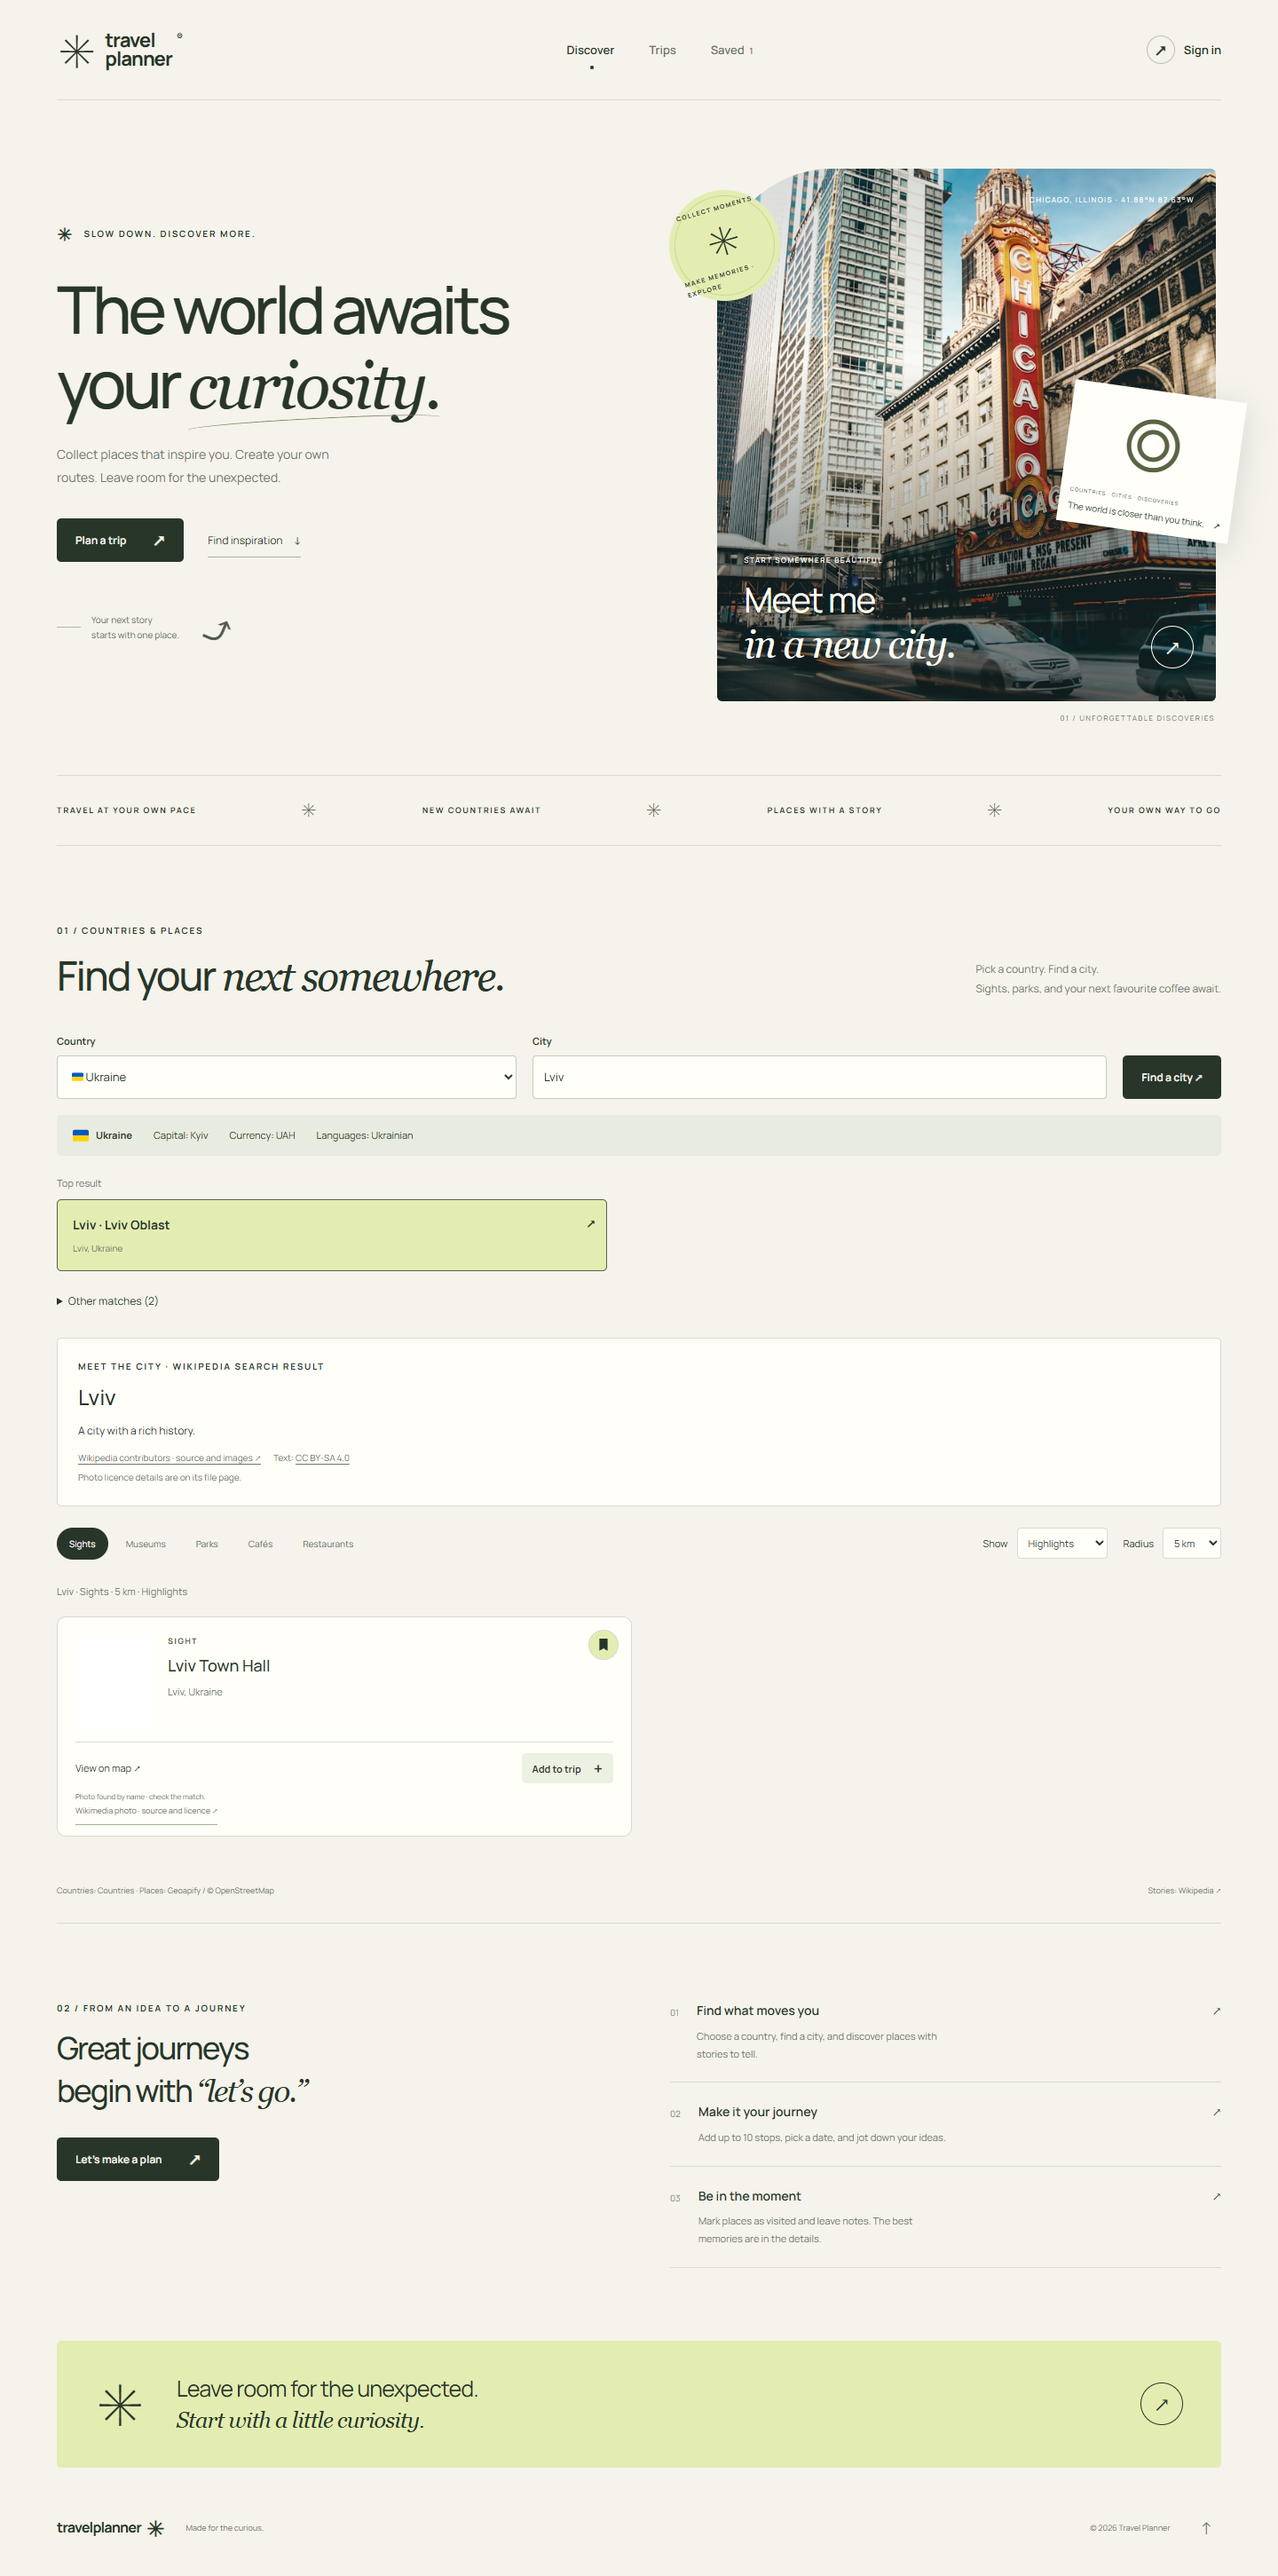
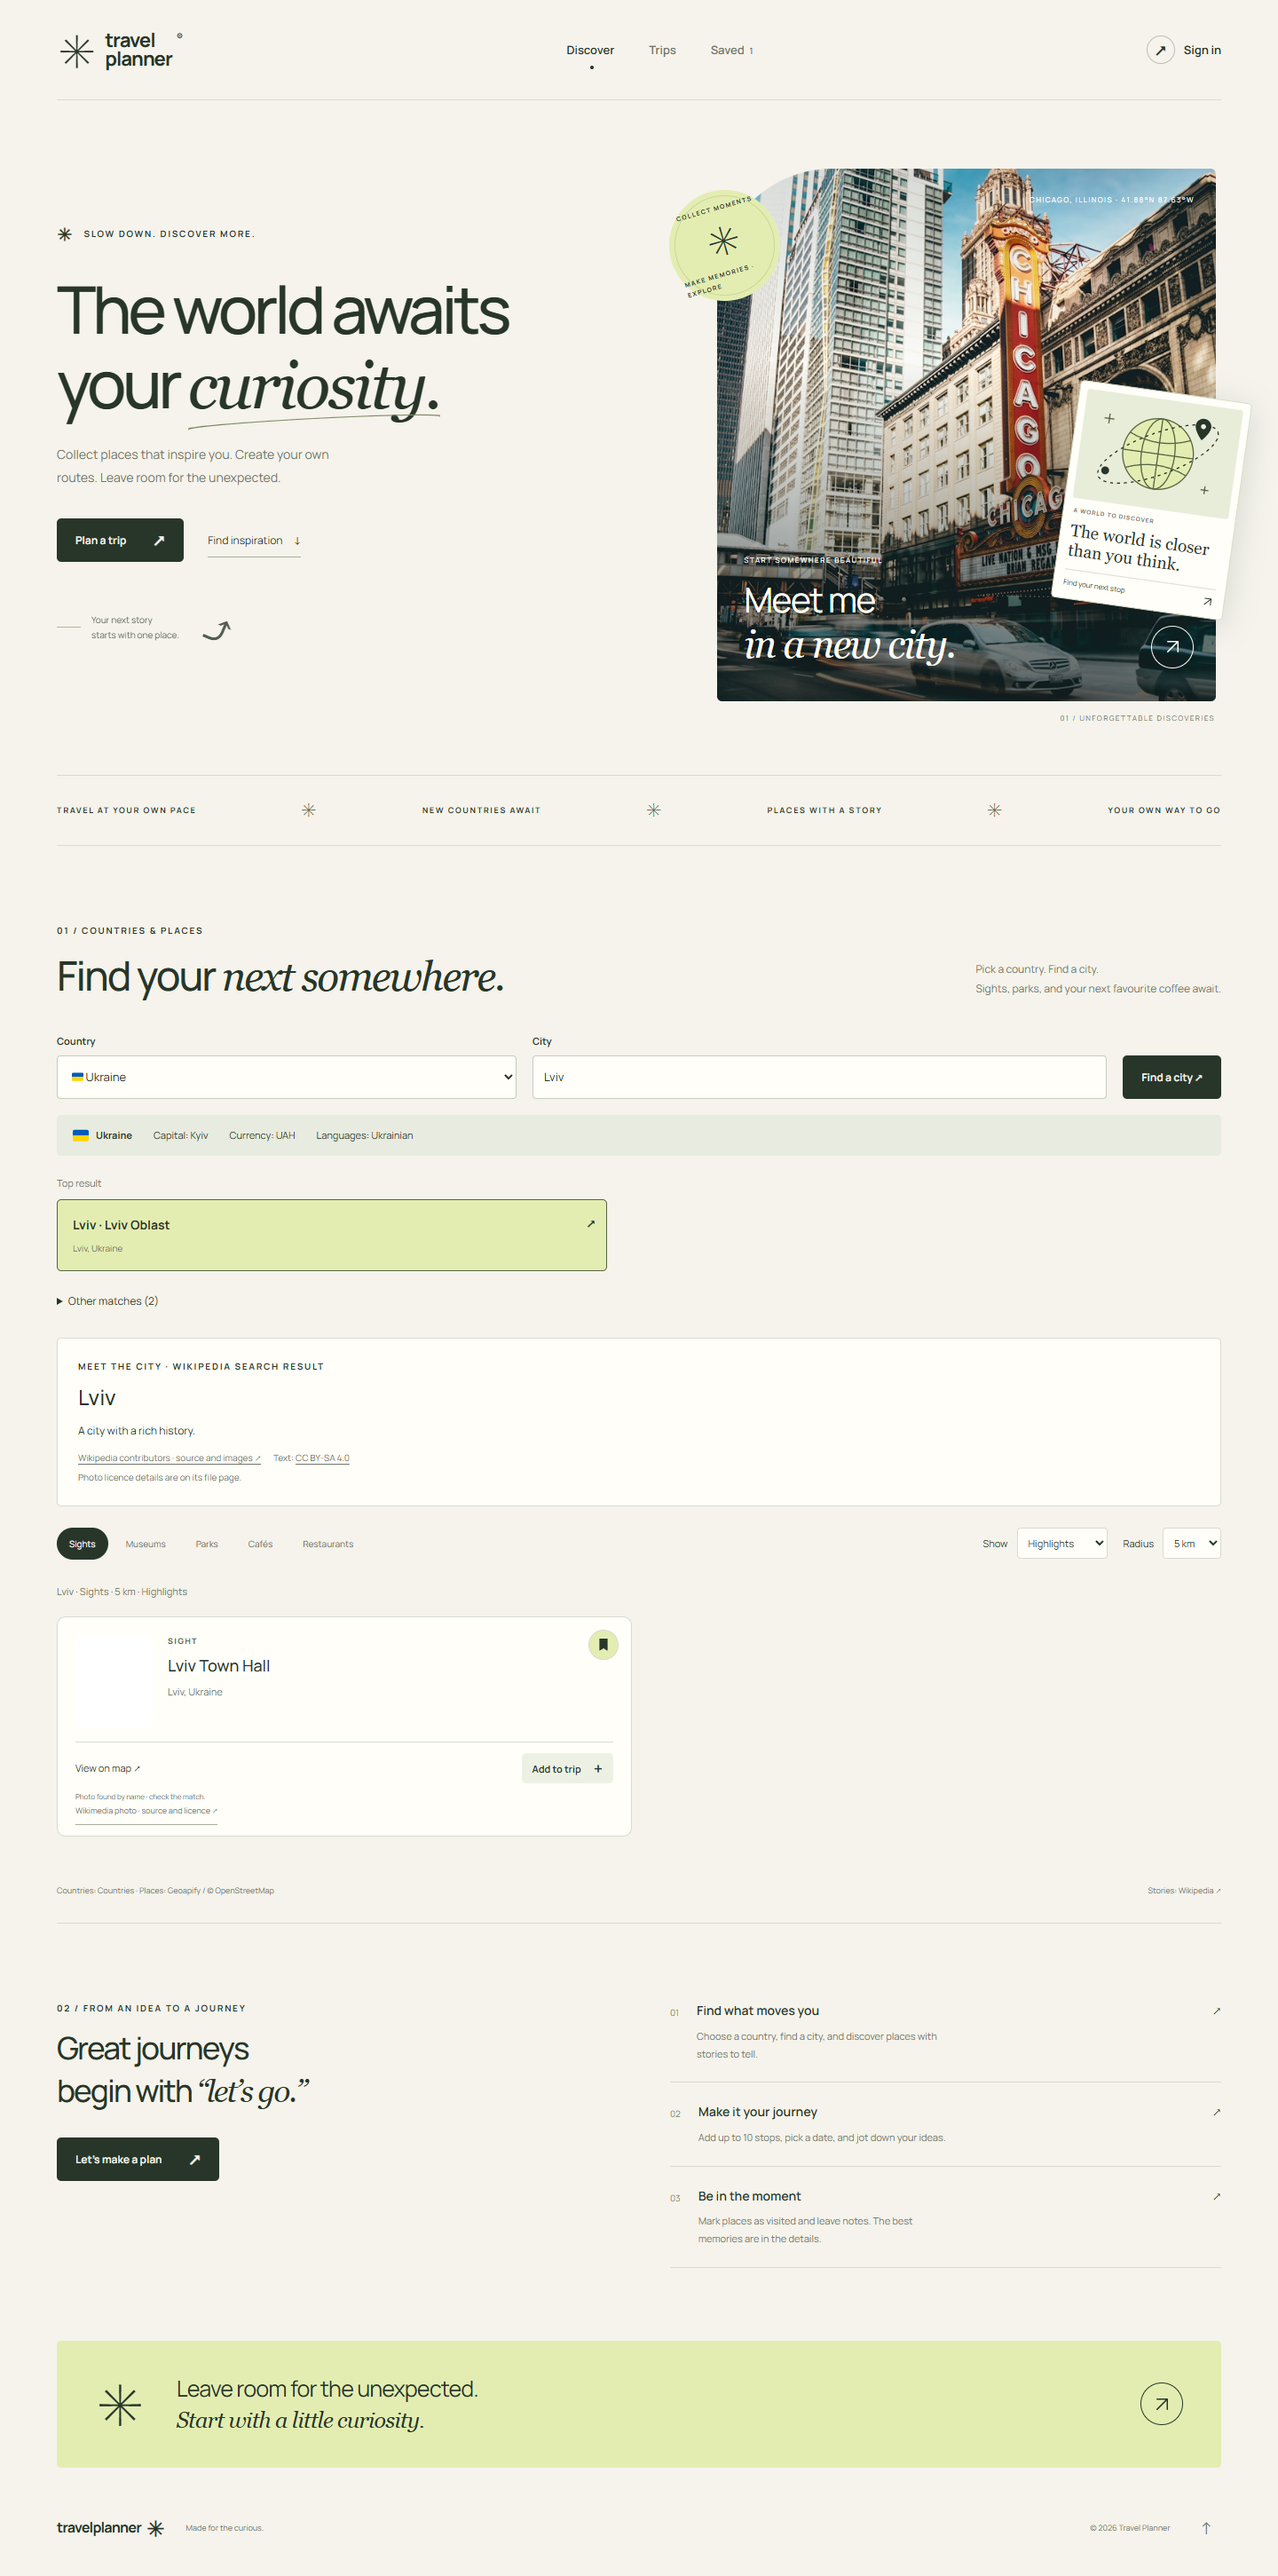
UI for index page - completed (for now)

Changed region(s): [[0.8125, 0.1241, 0.9688, 0.2481]]

diff --git a/frontend/templates/travel/index.html b/frontend/templates/travel/index.html
@@ -15,13 +15,20 @@
   <a class="skip-link" href="#main">Skip to content</a>
   <div class="site-shell">
     <header class="site-header">
-      <a href="#discover" class="brand" aria-label="Travel Planner — home"><span class="brand-mark" aria-hidden="true">✳</span><span>travel<span class="brand-second">planner</span></span><span class="brand-dot">®</span></a>
+      <a href="#discover" class="brand" aria-label="Travel Planner — home">
+        <span class="brand-mark" aria-hidden="true">✳</span>
+        <span>travel<span class="brand-second">planner</span></span>
+        <span class="brand-dot">®</span></a>
       <nav class="main-nav" aria-label="Main navigation">
         <a href="#discover" data-nav="discover" class="active">Discover<span class="nav-dot"></span></a>
         <a href="#trips" data-nav="trips">Trips<span class="nav-dot"></span></a>
         <a href="#saved" data-nav="saved">Saved <span id="saved-count" class="nav-count">0</span><span class="nav-dot"></span></a>
       </nav>
-      <button class="account-button" id="account-button"><span class="account-icon" aria-hidden="true">↗</span><span id="account-label">Sign in</span></button>
+      <button class="account-button" id="account-button">
+        <span class="account-icon" aria-hidden="true">
+          <svg viewBox="0 0 24 24" focusable="false"><path d="M6 18 18 6M6 6h12v12"/></svg>
+        </span>
+        <span id="account-label">Sign in</span></button>
     </header>
 
     <main id="main" tabindex="-1">
@@ -35,9 +42,30 @@
             <div class="hero-note"><span class="note-line"></span><p>Your next story<br>starts with one place.</p><span class="hand-arrow" aria-hidden="true">⤴</span></div>
           </div>
           <div class="hero-visual">
-            <div class="photo-frame"><img class="hero-photo" src="{% static 'travel/images/chicago.jpg' %}" width="1100" height="1300" alt="The historic Chicago Theatre sign among city buildings" fetchpriority="high"><div class="photo-shade"></div><span class="photo-coordinate">CHICAGO, ILLINOIS · 41.88°N 87.63°W</span><div class="photo-caption"><span>START SOMEWHERE BEAUTIFUL</span><p>Meet me<br><i>in a new city.</i></p><a href="#collection" class="round-link" aria-label="Find a city for your trip">↗</a></div></div>
+            <div class="photo-frame">
+              <img class="hero-photo" src="{% static 'travel/images/chicago.jpg' %}" width="1100" height="1300" alt="The historic Chicago Theatre sign among city buildings" fetchpriority="high">
+              <div class="photo-shade"></div>
+              <span class="photo-coordinate">CHICAGO, ILLINOIS · 41.88°N 87.63°W</span>
+              <div class="photo-caption"><span>START SOMEWHERE BEAUTIFUL</span>
+                <p>Meet me<br><i>in a new city.</i></p>
+                <a href="#collection" class="round-link" aria-label="Find a city for your trip">
+                  <svg viewBox="0 0 24 24" aria-hidden="true" focusable="false"><path d="M6 18 18 6M6 6h12v12"/></svg>
+                </a>
+              </div>
+            </div>
             <div class="travel-stamp" aria-hidden="true"><span>COLLECT MOMENTS</span><b>✳</b><span>MAKE MEMORIES · EXPLORE</span></div>
-            <a class="art-postcard destination-postcard" href="#collection"><span class="postcard-globe" aria-hidden="true">◎</span><div><span>COUNTRIES · CITIES · DISCOVERIES</span><p>The world is closer than you think. <b>↗</b></p></div></a>
+            <a class="art-postcard destination-postcard" href="#collection">
+              <svg class="postcard-globe" viewBox="0 0 160 112" aria-hidden="true" focusable="false">
+                <circle class="globe-fill" cx="80" cy="56" r="36"/>
+                <g class="globe-grid"><circle cx="80" cy="56" r="36"/><ellipse cx="80" cy="56" rx="17" ry="36"/><path d="M44 56h72M49 38q31 13 62 0M49 74q31-13 62 0M80 20v72"/></g>
+                <ellipse class="globe-route" cx="80" cy="56" rx="65" ry="21" transform="rotate(-28 80 56)"/>
+                <circle class="globe-stop" cx="29" cy="80" r="4"/>
+                <path class="globe-pin" d="M114 22a8 8 0 0 1 16 0c0 6-8 14-8 14s-8-8-8-14Z"/>
+                <circle class="globe-pin-center" cx="122" cy="22" r="2.5"/>
+                <path class="globe-grid" d="M26 22v10m-5-5h10M132 82v8m-4-4h8"/>
+              </svg>
+              <div><span class="postcard-kicker">A WORLD TO DISCOVER</span><p>The world is closer than you think.</p><span class="postcard-action">Find your next stop <svg viewBox="0 0 24 24" aria-hidden="true" focusable="false"><path d="M6 18 18 6M6 6h12v12"/></svg></span></div>
+            </a>
             <span class="visual-index">01 / UNFORGETTABLE DISCOVERIES</span>
           </div>
         </div>
@@ -57,7 +85,7 @@
         </section>
 
         <section class="journey-section section-space" aria-labelledby="journey-heading"><div class="journey-heading"><p class="eyebrow">02 / FROM AN IDEA TO A JOURNEY</p><h2 id="journey-heading">Great journeys<br>begin with <em>“let’s go.”</em></h2><button class="button button-dark" data-action="create-trip">Let’s make a plan <span aria-hidden="true">↗</span></button></div><div class="journey-steps"><article><span class="step-number">01</span><div><h3>Find what moves you</h3><p>Choose a country, find a city, and discover places with stories to tell.</p></div><span aria-hidden="true">↗</span></article><article><span class="step-number">02</span><div><h3>Make it your journey</h3><p>Add up to 10 stops, pick a date, and jot down your ideas.</p></div><span aria-hidden="true">↗</span></article><article><span class="step-number">03</span><div><h3>Be in the moment</h3><p>Mark places as visited and leave notes. The best memories are in the details.</p></div><span aria-hidden="true">↗</span></article></div></section>
-        <section class="closing-banner"><span class="closing-star" aria-hidden="true">✳</span><p>Leave room for the unexpected.<br><em>Start with a little curiosity.</em></p><button class="round-link" data-action="create-trip" aria-label="Create your first trip">↗</button></section>
+        <section class="closing-banner"><span class="closing-star" aria-hidden="true">✳</span><p>Leave room for the unexpected.<br><em>Start with a little curiosity.</em></p><button class="round-link" data-action="create-trip" aria-label="Create your first trip"><svg viewBox="0 0 24 24" aria-hidden="true" focusable="false"><path d="M6 18 18 6M6 6h12v12"/></svg></button></section>
       </section>
 
       <section id="trips-view" class="view inner-view" hidden aria-labelledby="trips-heading"><div class="section-heading"><div><p class="eyebrow">YOUR SPACE TO EXPLORE</p><h1 id="trips-heading" class="page-title">Adventures <em>ahead.</em></h1></div><button class="button button-dark" data-action="create-trip">New trip <span aria-hidden="true">+</span></button></div><div class="workspace-note" id="workspace-note"></div><div class="trips-toolbar"><div class="filter-group" role="group" aria-label="Trip status"><button class="filter active" data-trip-filter="all" aria-pressed="true">All</button><button class="filter" data-trip-filter="planned" aria-pressed="false">Planned</button><button class="filter" data-trip-filter="complete" aria-pressed="false">Visited</button></div><span id="trip-total" class="muted"></span></div><div id="trips-grid" class="trips-grid" aria-live="polite"></div></section>

diff --git a/frontend/static/travel/app.css b/frontend/static/travel/app.css
@@ -146,17 +146,6 @@
 .art-card .detail-caption .text-link {
   font-size: 9px;
 }
-.destination-postcard {
-  background: var(--lime);
-  padding: 15px;
-}
-.postcard-globe {
-  font-size: 85px !important;
-  text-align: center;
-  line-height: 1.2;
-  display: block !important;
-  color: var(--olive);
-}
 .photo-caption i {
   font-size: 35px;
 }
@@ -420,7 +409,8 @@ em {
   place-items: center;
   border: 1px solid #bbc0b0;
   border-radius: 50%;
-  font-size: 19px;
+  flex-shrink: 0;
+  line-height: 1;
 }
 .hero {
   display: grid;
@@ -618,13 +608,32 @@ em {
   width: 48px;
   height: 48px;
   border-radius: 50%;
+  padding: 0;
+  line-height: 1;
+  flex-shrink: 0;
   font-size: 25px;
   background: transparent;
+}
+.round-link,
+.account-icon {
   transition:
     transform 0.2s,
     background 0.2s;
 }
-.round-link:hover {
+.round-link svg,
+.account-icon svg {
+  display: block;
+  width: 50%;
+  height: 50%;
+  fill: none;
+  stroke: currentColor;
+  stroke-width: 1.6;
+  stroke-linecap: round;
+  stroke-linejoin: round;
+}
+.round-link:hover,
+.account-button:hover .account-icon,
+.account-button:focus-visible .account-icon {
   transform: rotate(15deg);
   background: #ffffff20;
 }
@@ -692,6 +701,69 @@ em {
 }
 .art-postcard b {
   float: right;
+}
+.destination-postcard {
+  border: 1px solid #d8ddcb;
+  border-radius: 5px;
+}
+.postcard-globe {
+  display: block;
+  width: 100%;
+  height: auto;
+  background: #e8edda;
+  border-radius: 3px;
+}
+.globe-fill {
+  fill: var(--lime);
+}
+.globe-grid,
+.globe-route {
+  fill: none;
+  stroke: var(--olive);
+  stroke-width: 1.2;
+}
+.globe-route {
+  stroke: var(--ink);
+  stroke-dasharray: 3 4;
+}
+.globe-stop,
+.globe-pin {
+  fill: var(--ink);
+}
+.globe-pin-center {
+  fill: var(--paper);
+}
+.destination-postcard .postcard-kicker {
+  font-size: 6.5px;
+  font-weight: 700;
+  letter-spacing: 1px;
+  color: var(--muted);
+}
+.art-postcard.destination-postcard p {
+  font-family: var(--serif);
+  font-size: 19px;
+  line-height: 1.15;
+  margin: 7px 0 10px;
+}
+.destination-postcard .postcard-action {
+  display: flex;
+  align-items: center;
+  justify-content: space-between;
+  gap: 4px;
+  border-top: 1px solid var(--line);
+  padding-top: 7px;
+  font-size: 8px;
+  letter-spacing: 0;
+}
+.postcard-action svg {
+  width: 14px;
+  height: 14px;
+  flex-shrink: 0;
+  fill: none;
+  stroke: currentColor;
+  stroke-width: 1.6;
+  stroke-linecap: round;
+  stroke-linejoin: round;
 }
 .visual-index {
   position: absolute;
@@ -1817,6 +1889,12 @@ body.modal-open {
   .art-postcard p {
     font-size: 8px;
   }
+  .art-postcard.destination-postcard {
+    top: 150px;
+  }
+  .art-postcard.destination-postcard p {
+    font-size: 16px;
+  }
   .hero-description {
     font-size: 11px;
   }
@@ -1937,7 +2015,6 @@ body.modal-open {
   .account-icon {
     width: 28px;
     height: 28px;
-    font-size: 16px;
   }
   .main-nav {
     position: absolute;
@@ -2030,6 +2107,12 @@ body.modal-open {
   .art-postcard p {
     font-size: 9px;
   }
+  .art-postcard.destination-postcard {
+    top: 80px;
+  }
+  .destination-postcard .postcard-globe {
+    height: 72px;
+  }
   .photo-caption {
     left: 25px;
     bottom: 30px;
@@ -2039,7 +2122,7 @@ body.modal-open {
     font-size: 34px;
   }
   .photo-caption i {
-    font-size: 39px;
+    font-size: clamp(28px, 8vw, 36px);
   }
   .photo-caption > span {
     font-size: 7px;
